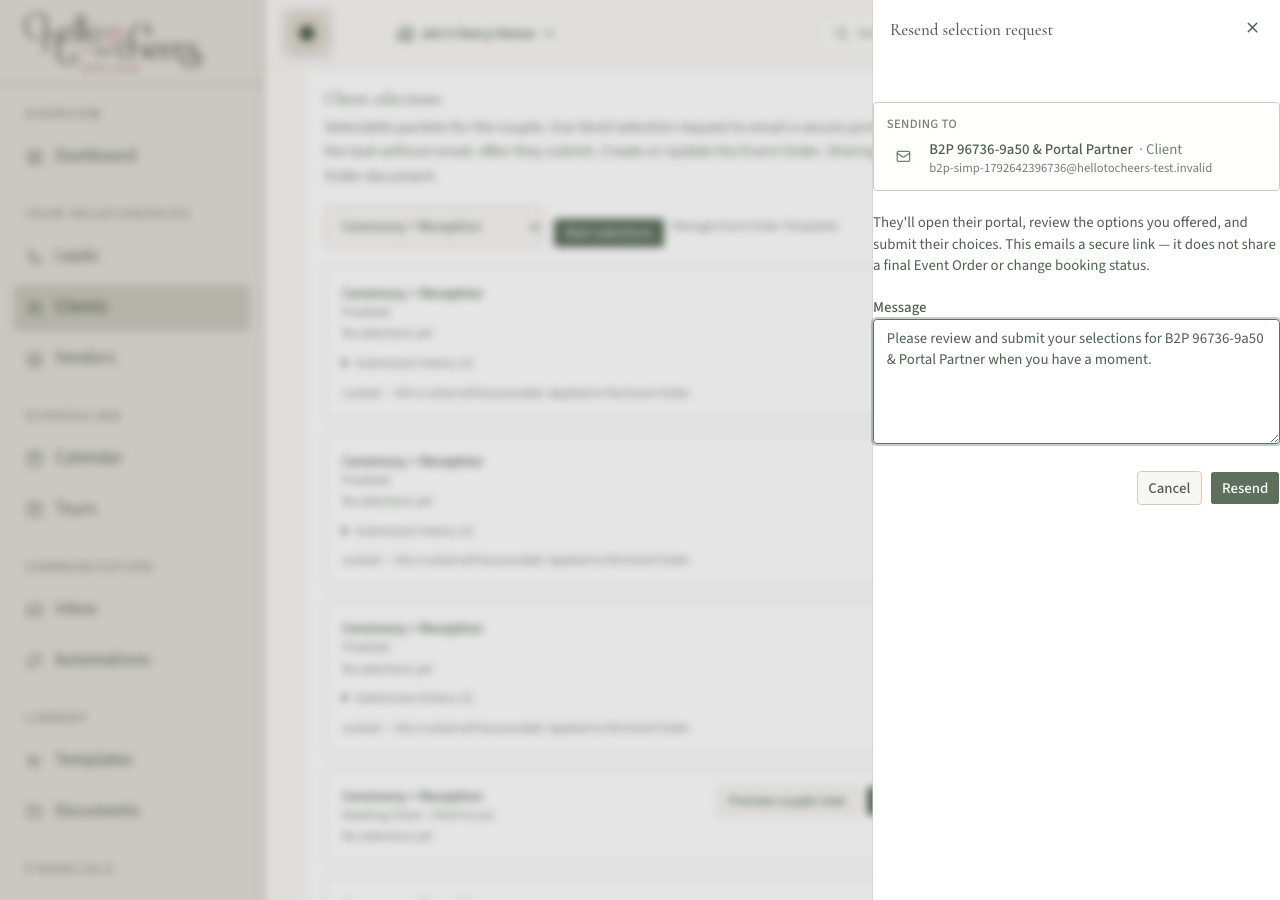
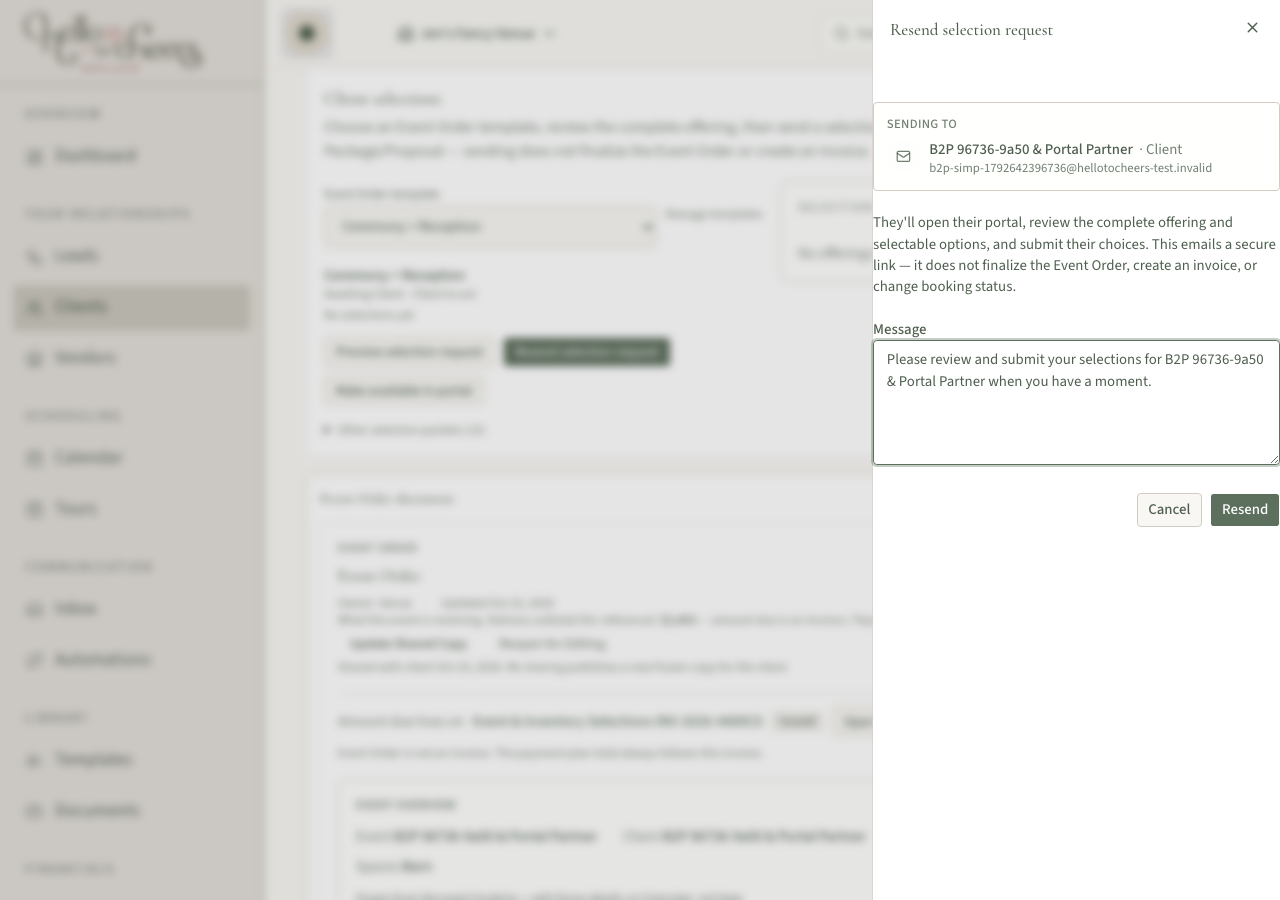
Record GREEN Sandbox proof for Event Order selection offering context.
Full verify-browser harness is 61/61 on serving 18b8964a, including preview-dialog and selection-form-shows-offering-context.

diff --git a/docs/qa/event-order-workflow-correction/STATUS.md b/docs/qa/event-order-workflow-correction/STATUS.md
@@ -2,40 +2,38 @@
 
 ## Status
 
-**GREEN for selection-email isolation** on serving `4ef14218`  
-(`digest sha256:f3ba33aadb64461398c690cda13085b5a7456db80641ebf6f5da8f25b29c8902`).
+**GREEN** — full workflow-correction harness **61/61** on serving Sandbox.
 
-**NOT GREEN for full workflow-correction harness** — **59/61** on the same image.
+Previously failing checks now pass:
+- `preview-dialog`
+- `selection-form-shows-offering-context`
 
-## Isolation (closed)
-
-`verify-selection-email-isolation.mts` → **GREEN 10/10** against `4ef14218`.
-
-Sending **Send selection request** emails a secure Choices link. It does **not** share, finalize, or accept the Event Order. Booking timestamps unchanged.
-
-## Full journey outstanding (2 failures)
-
-`verify-browser.mts` on `4ef14218`:
-
-| Check | Result | Note |
-| --- | --- | --- |
-| `preview-dialog` | FAIL | Staff preview did not show `#artifact-review-title` + `choices-definition-view` together |
-| `selection-form-shows-offering-context` | FAIL | Couple Choices shows “Your Choices” but missing Included/Pick/fieldset offering context |
-
-All other full-journey checks passed (send isolation, invoice reconcile, portal payable, documents EO, booking unchanged, session restore).
-
-**Next action:** Fix staff EO send-preview overlay surface and couple Choices offering-context presentation (or align harness selectors to the shipped UI), then re-run `verify-browser.mts` with `EXPECTED_SHA=<serving>`.
-
-## Build / deploy (this closure)
+## Serving (verified)
 
 | Item | Value |
 | --- | --- |
-| PricingModel TSC fix | `e4b4849f` |
-| docs exclude + handoff | `c4530c3a` → `4ef14218` |
-| Deploy | https://github.com/jlcormier612/wevenu-website/actions/runs/40065359281 **success** |
+| Product commit (EO fix) | `5642f30c3fc4276ce65715c8a3f4782c8243acb2` |
+| Serving image tag | `18b8964a7d46aa764b4657ec7dc31eb80b8fc342` (includes EO fix + later floor-plan confirm) |
+| Image digest | `sha256:fe3b44cfe081689a972ed5ea331a559fbc2a535ee43ff5ae4274a0a1d973e774` |
+| EO deploy | [40214423634](https://github.com/jlcormier612/wevenu-website/actions/runs/40214423634) **success** @ `5642f30c` |
+| Later deploy (serving tip) | [40215221981](https://github.com/jlcormier612/wevenu-website/actions/runs/40215221981) **success** @ `18b8964a` |
+| Harness | `EXPECTED_SHA=18b8964a… verify-browser.mts` → **GREEN 61/61** |
 | Production | untouched |
+
+## Isolation (still GREEN)
+
+`verify-selection-email-isolation.mts` remains GREEN from the prior closure. Selection send does not share/finalize/accept the Event Order.
+
+## Fix summary
+
+Legacy `client_choices.definition` packets froze sections without `fixedLines`. Product now re-freezes incomplete EO-sourced packets on list/get/send; staff overlay keeps unique `choices-definition-view`; couple form shows frozen “Included with your event” context.
+
+## Financial regression (this run)
+
+Payable still reconciles to **$2,266.31** (billable $2,133 + tax $133.31). Booking unchanged. Portal sessions restored.
 
 ## Evidence
 
-- `isolation-browser-run.log`, `selection-email-isolation-results.json`
-- `browser-run.log`, `browser-results.json` (59/61)
+- `browser-run.log`, `browser-results.json` (61/61)
+- `persisted-state.json`
+- `shots/preview-1280.png`, `shots/selection-link-1280.png`, …
